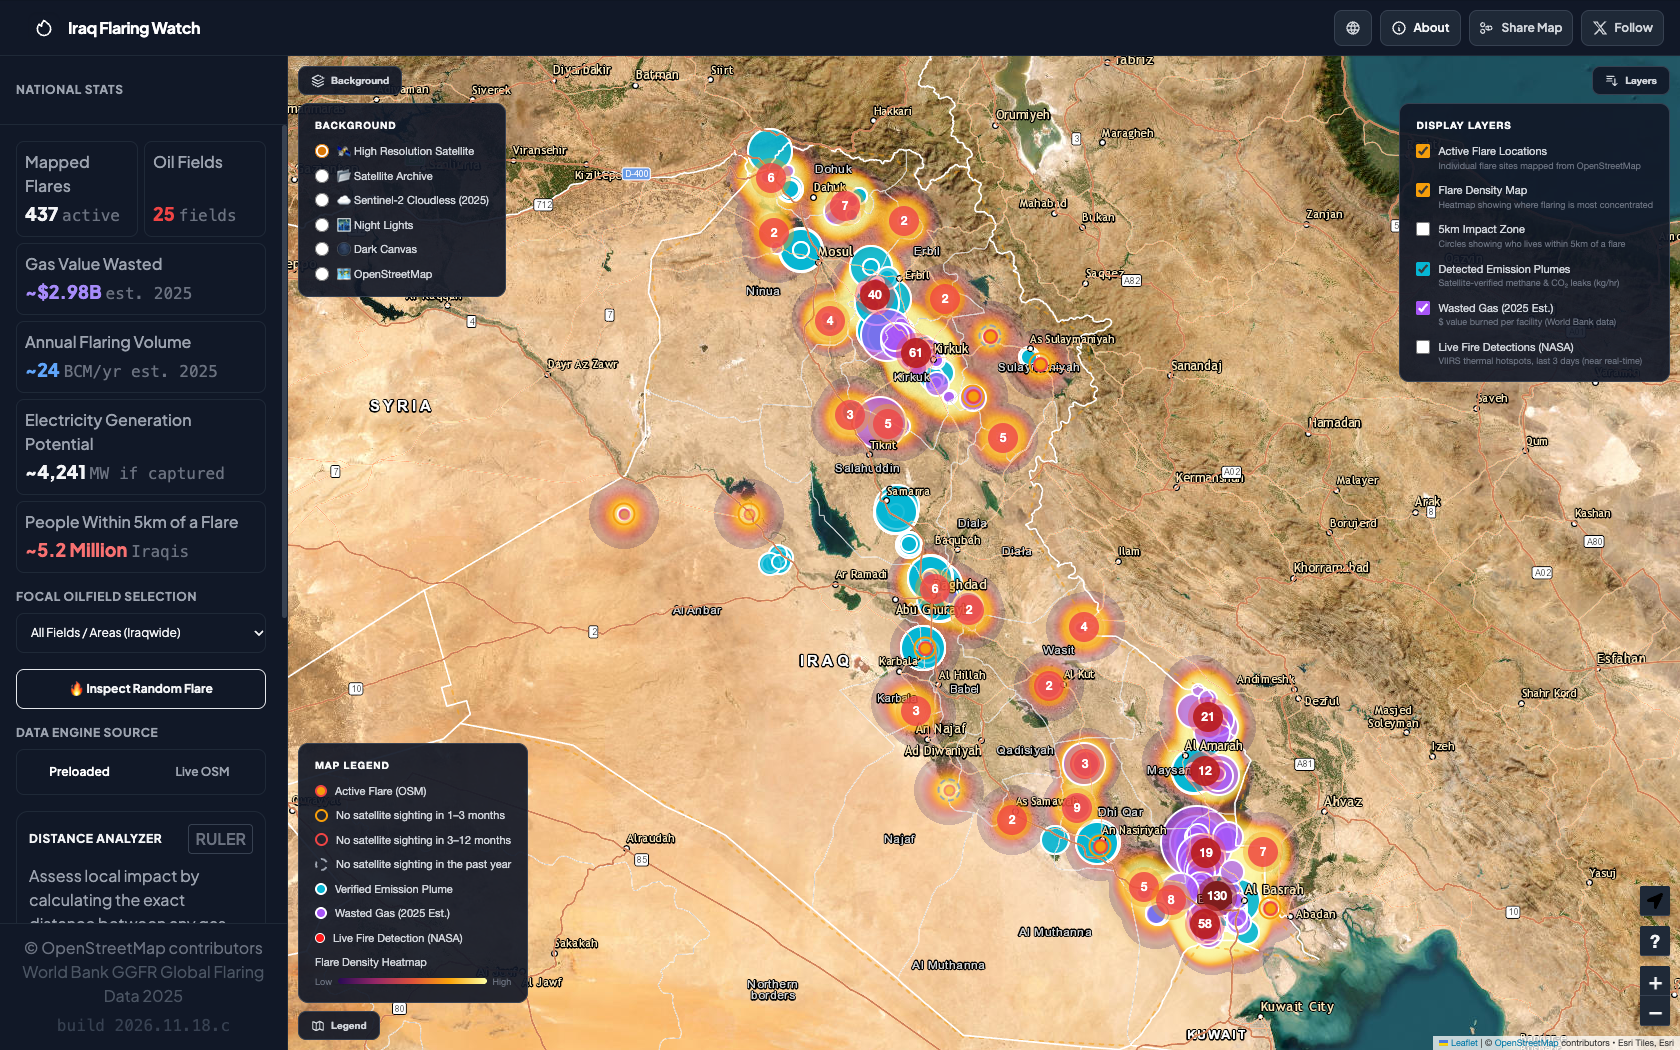
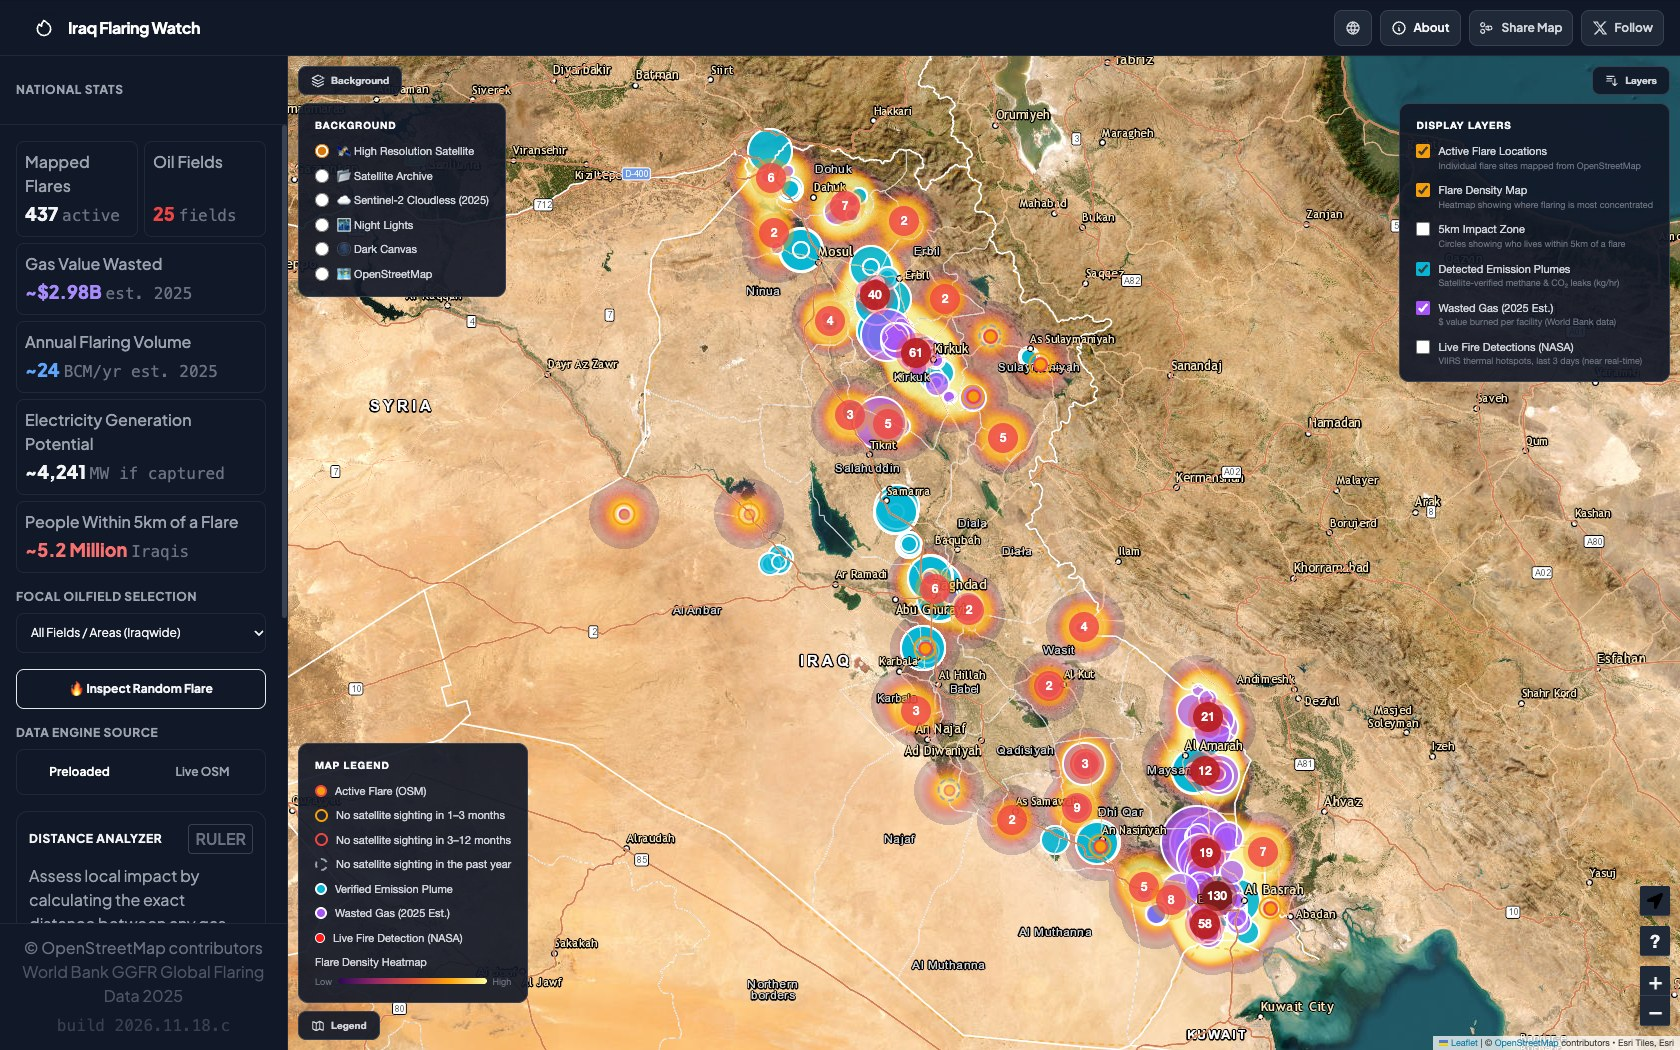
build 2026.11.18.d

diff --git a/index.html b/index.html
@@ -37,9 +37,9 @@
     <meta property="og:url" content="https://iraqflaringwatch.com">
     <meta property="og:title" content="Iraq Flaring Watch">
     <meta property="og:description" content="Interactive map tracking gas flaring across Iraq. See active flare sites, verified emission plumes, and annual economic waste per facility based on World Bank GGFR 2025 data.">
-    <meta property="og:image" content="https://raw.githubusercontent.com/rawazrauf/iraq-flaring-watch/main/iraq-flaring-overview.png">
-    <meta property="og:image:width" content="1200">
-    <meta property="og:image:height" content="630">
+    <meta property="og:image" content="https://raw.githubusercontent.com/rawazrauf/iraq-flaring-watch/main/iraq-flaring-overview.jpg">
+    <meta property="og:image:width" content="1680">
+    <meta property="og:image:height" content="1050">
     <meta property="og:site_name" content="Iraq Flaring Watch">
     <meta property="og:locale" content="en_US">
 
@@ -48,7 +48,7 @@
     <meta name="twitter:url" content="https://iraqflaringwatch.com">
     <meta name="twitter:title" content="Iraq Flaring Watch">
     <meta name="twitter:description" content="Interactive map tracking gas flaring across Iraq. See active flare sites, verified emission plumes, and annual economic waste per facility based on World Bank GGFR 2025 data.">
-    <meta name="twitter:image" content="https://raw.githubusercontent.com/rawazrauf/iraq-flaring-watch/main/iraq-flaring-overview.png">
+    <meta name="twitter:image" content="https://raw.githubusercontent.com/rawazrauf/iraq-flaring-watch/main/iraq-flaring-overview.jpg">
     <meta name="twitter:site" content="@IraqFlaring">
     <meta name="twitter:creator" content="@rawaz">
 
@@ -485,7 +485,7 @@
                     © <a href="https://www.openstreetmap.org/copyright" target="_blank" class="hover:underline">OpenStreetMap contributors</a> <br>
                     <a href="https://www.worldbank.org/en/programs/gasflaringreduction/global-flaring-data" target="_blank" class="hover:underline text-gray-600">World Bank GGFR Global Flaring Data 2025</a>
                 </p>
-                <p class="text-[9px] text-gray-700 font-mono mt-1.5">build 2026.11.18.c</p>
+                <p class="text-[9px] text-gray-700 font-mono mt-1.5">build 2026.11.18.d</p>
             </div>
         
         </aside>
@@ -509,7 +509,7 @@
     <script>
         /* ============================================================
            Iraq Flaring Watch — iraqflaringwatch.com
-           Build: 2026.11.18.c
+           Build: 2026.11.18.d
            Last updated: 18 November 2026
            ============================================================ */
         /* ------------------------------------------------------------

diff --git a/README.md b/README.md
@@ -22,7 +22,7 @@ Gas flaring burns off associated natural gas during oil extraction rather than c
 ## Screenshots
 
 ### National Overview
-All layers active — flare clusters, emission plumes, economic waste bubbles, and density heatmap across Iraq's oil fields.
+Flare clusters, emission plumes, wasted-gas bubbles and the density heatmap across Iraq's oil fields, with the background and layer menus open.
 
 ![Iraq Flaring Watch national overview](https://raw.githubusercontent.com/rawazrauf/iraq-flaring-watch/main/iraq-flaring-overview.jpg)
 
@@ -32,14 +32,14 @@ Click any purple bubble to see annual gas volume (World Bank GGFR 2025), estimat
 ![Wasted gas popup showing Basra Energy Company's 2025 flaring at Rumaila](https://raw.githubusercontent.com/rawazrauf/iraq-flaring-watch/main/emission-inspection-satellite.png)
 
 ### Active Flare Inspection
-Zoom into any flare on satellite imagery to see population within 5km, coordinates, and direct links to Google Maps and OSM editor.
+Zoom into any flare on satellite imagery to see population within 5km, coordinates, when a satellite last detected it burning and how often in the past year, and direct links to Google Maps and the OSM editor. Red dots are live NASA fire detections.
 
 ![Gas flare inspection popup on satellite imagery](https://raw.githubusercontent.com/rawazrauf/iraq-flaring-watch/main/flare-inspection-satellite.png)
 
 ### Emission Plume — OpenStreetMap Background
-CO₂ and CH₄ plumes detected by Carbon Mapper's Tanager satellite, shown with emission rate in kg/hr and satellite detection image.
+CH₄ and CO₂ plumes detected by Carbon Mapper's Tanager satellite, shown with emission rate in kg/hr, sector, wind speed and the satellite detection image.
 
-![CO2 emission plume popup on OpenStreetMap background](https://raw.githubusercontent.com/rawazrauf/iraq-flaring-watch/main/plume-inspection-OSM.png)
+![CH4 emission plume popup on OpenStreetMap background](https://raw.githubusercontent.com/rawazrauf/iraq-flaring-watch/main/plume-inspection-OSM.png)
 
 ---
 
